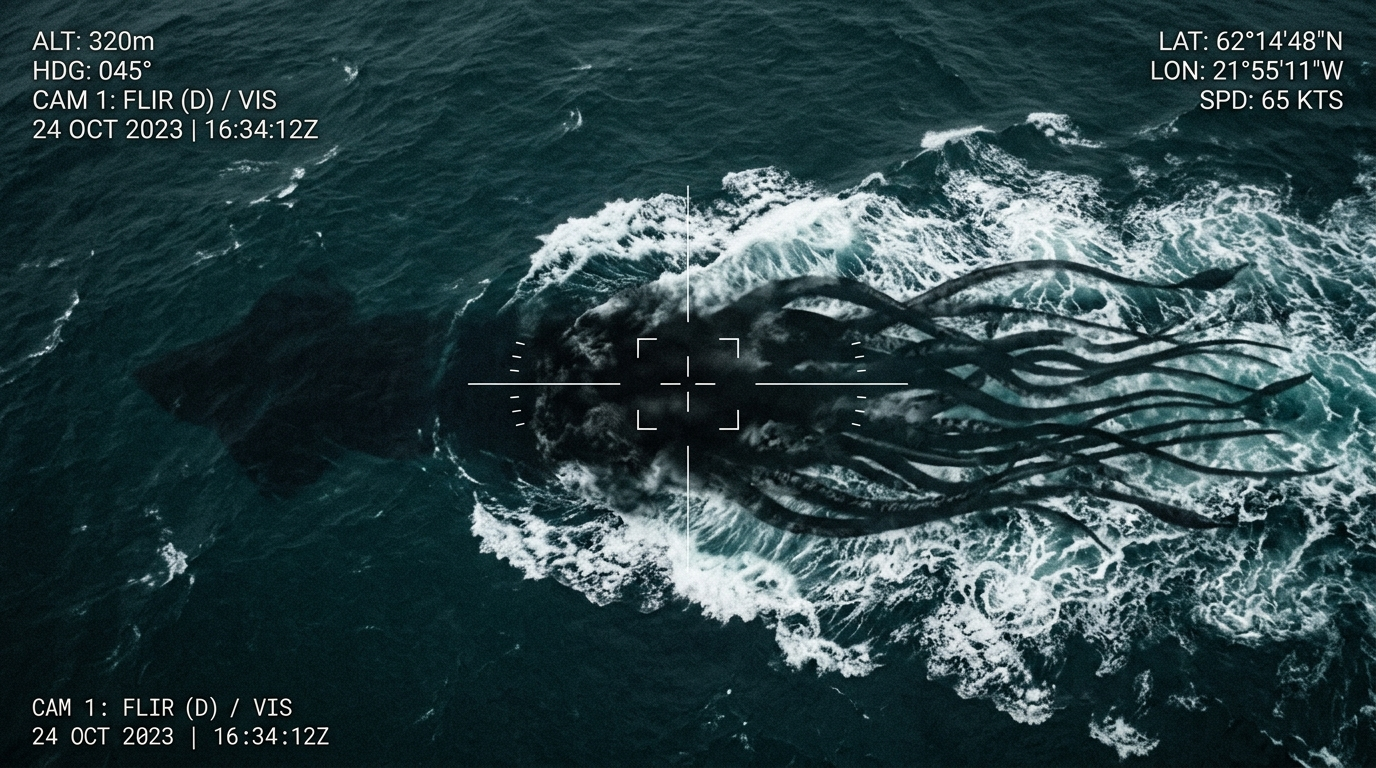
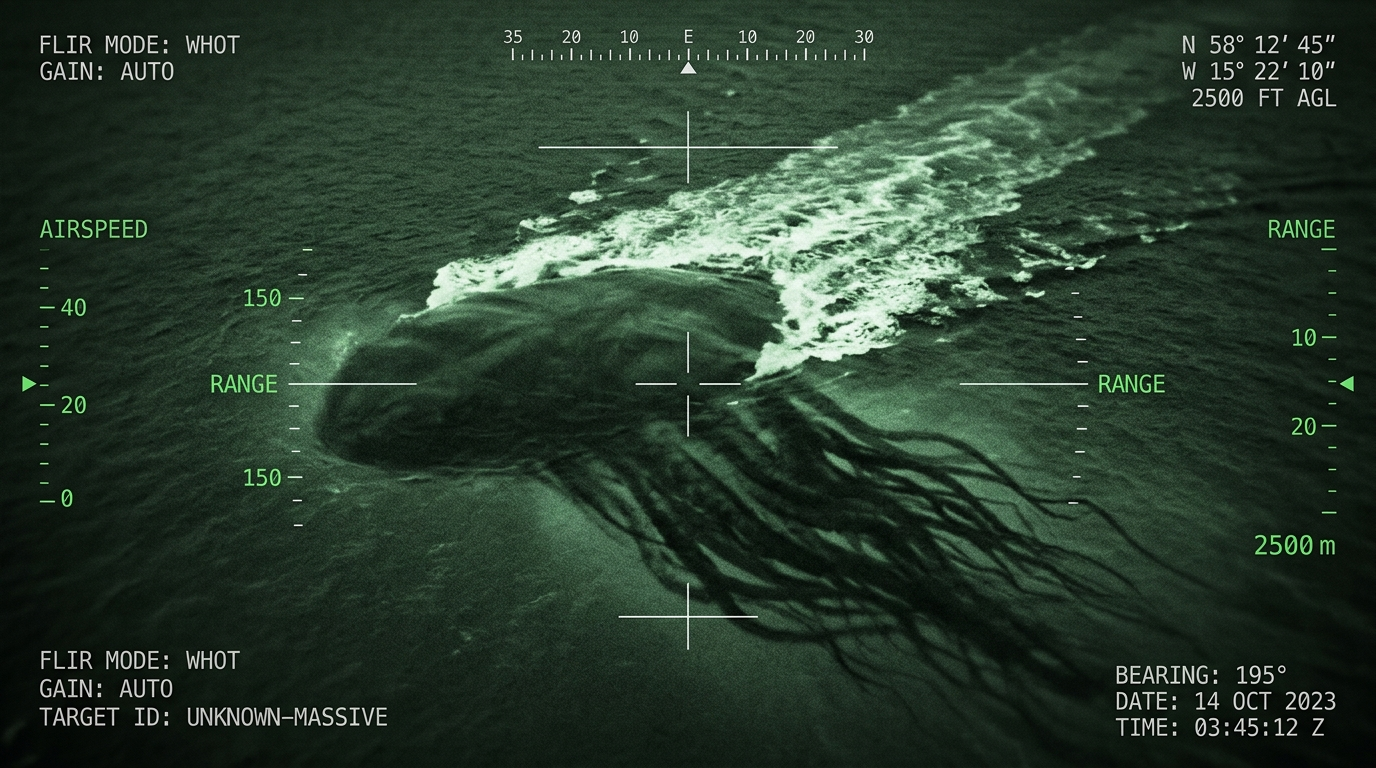
fix(photo): 成功写真をイカ頭部形状から広大な横幅の超群体シャドウと膨大な触手群へ刷新

diff --git a/src/components/TimelineBoard.tsx b/src/components/TimelineBoard.tsx
@@ -972,21 +972,21 @@ export const TimelineBoard: React.FC<TimelineBoardProps> = ({
                           </div>
 
                           <div className="grid grid-cols-2 gap-1.5 text-[10px] font-mono text-slate-300 mb-2">
-                            <div>高度: <strong>320 m (約1,050 ft)</strong></div>
+                            <div>高度: <strong>2,500 ft (約760m)</strong></div>
                             <div>海域: <strong>鳥島北西 約40km</strong></div>
                             <div>速度: <strong>時速約6km 北上</strong></div>
-                            <div>機材: <strong>FLIR赤外光学ポッド</strong></div>
+                            <div>機材: <strong>FLIR赤外光学ポッド (WHOT)</strong></div>
                           </div>
 
                           <div className="space-y-1.5 text-[11px] text-slate-300 leading-relaxed">
                             <p>
-                              ・<strong className="text-white">海面下シャドウ</strong>: 本体は完全に海面下に没しており、巨大な外套膜が黒い深海シルエットとして確認できる。
+                              ・<strong className="text-white">広大な横幅の超群体</strong>: 単体のイカ頭部ではなく、<strong>横幅数百メートルに及ぶ広大な海面下の生体質量</strong>として深海シャドウを記録。
                             </p>
                             <p>
-                              ・<strong className="text-white">数十本の触手群（超群体）</strong>: 背後には<strong>ダイオウイカ少なくとも20匹分に相当する無数の触手</strong>が密集し、海中を長く直線的にたなびく異様な光景を記録。
+                              ・<strong className="text-white">無数の増殖触手群</strong>: 幅広い後背部全体から、<strong>ダイオウイカ多数が結合した膨大な本数の触手</strong>が束ねられ、海中深くを直線的にたなびく圧倒的シルエット。
                             </p>
                             <p>
-                              ・<strong className="text-white">航跡波（ケルビン波）</strong>: 海面直下を泳ぎ去る巨大な質量により、幅数百メートルに及ぶ猛烈な白波と渦流が発生。
+                              ・<strong className="text-white">巨大な航跡波</strong>: 広大な横幅の遊泳に伴い、海面には猛烈な白波とV字型のケルビン波が発生。
                             </p>
                           </div>
                         </div>
@@ -1620,7 +1620,7 @@ export const TimelineBoard: React.FC<TimelineBoardProps> = ({
                   </h3>
                   <p className="text-[11px] text-slate-400 font-mono">
                     {day3PhotoModal === "success"
-                      ? "TIME: 14:32:01 UTC | ALT: 1,500 FT | GPS: 14°N 165°W | TARGET: SUB-SURFACE ENTITY (SPINDLE FORM)"
+                      ? "TIME: 03:45:12 UTC | ALT: 2,500 FT | CAM: FLIR (WHOT) | TARGET: UNKNOWN-MASSIVE COLONY"
                       : "TIME: 09:14:23 UTC | ALT: 1,850 FT | RANGE: 21.3 KM | STATUS: EMPTY OCEAN / TARGET DIVED"}
                   </p>
                 </div>
@@ -1695,10 +1695,10 @@ export const TimelineBoard: React.FC<TimelineBoardProps> = ({
               <p className="text-[11px] text-slate-300 leading-relaxed">
                 {day3PhotoModal === "success" ? (
                   <>
-                    ・高度320m、捜索ヘリFLIRカメラより前進遊泳する巨大生物の後方からの撮影に成功。<br />
-                    ・本体は完全に海面下に没しており、巨大な外套膜が暗い深海シルエットとして確認できる。<br />
-                    ・背後には<strong>ダイオウイカ少なくとも20匹分に相当する無数の触手群</strong>が密集して海中を長く直線的にたなびいており、単体生物ではなく無数の個体が融合した「超群体（コロニー）」であることが決定づけられた。<br />
-                    ・海面には猛烈な白波とケルビン波が渦巻いており、時速約6kmで鳥島から正確に北上を継続中。
+                    ・高度2,500フィート、捜索ヘリFLIR赤外熱画像カメラより前進遊泳する巨大生物の後方からの撮影に成功。<br />
+                    ・単体のイカ頭部ではなく、<strong>横幅数百メートルに達する広大な生体質量（超群体）</strong>が海面下の黒い深海シャドウとして確認できる。<br />
+                    ・その幅広い後背部全体から、<strong>無数に増殖した膨大な触手群</strong>が海中を長く直線的にたなびいており、ダイオウイカ多数の個体が緊密に結合した「超群体（コロニー）」の全貌を捉えた。<br />
+                    ・海面には広大な横幅に伴う猛烈な白波とケルビン波が渦巻いており、時速約6kmで鳥島から正確に北上を継続中。
                   </>
                 ) : (
                   <>
